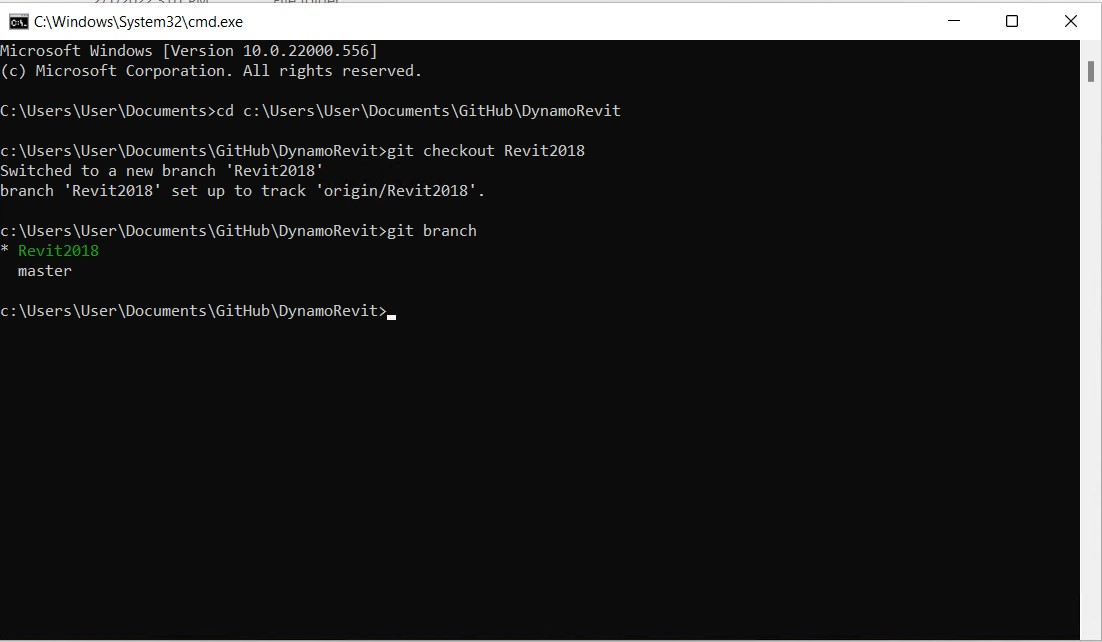
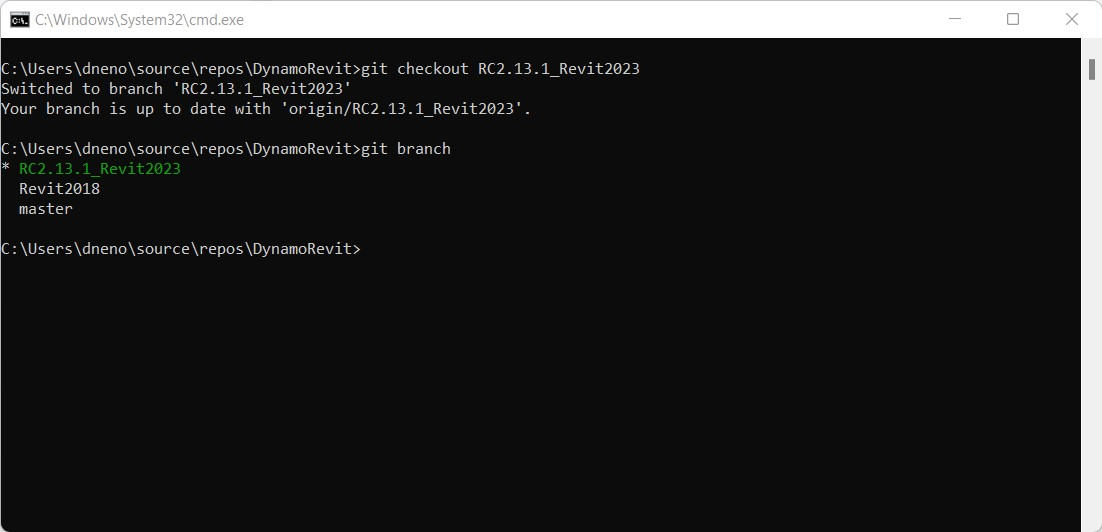
GitBook: [#26] No subject

Changed region(s): [[0.0, 0.0, 1.0, 0.5113], [0.0, 0.9925, 1.0, 1.0], [0.9873, 0.0902, 1.0, 0.1504]]

diff --git a/build-dynamo-from-source/build-dynamorevit-from-source.md b/build-dynamo-from-source/build-dynamorevit-from-source.md
@@ -7,17 +7,17 @@ The DynamoRevit source files are also hosted on the DynamoDS Github for develope
 
 For this guide we will use the following:
 
-* Revit 2018
-* The latest DynamoRevit build on branch `Revit2018`
+* Revit 2023
+* The latest DynamoRevit build on branch `Revit2023`
 * The latest Dynamo build
 
 To ensure a successful build we will clone and build both the Dynamo and DynamoRevit repositories to use in this walk-through.
 
-_Note: building Dynamo manually before DynamoRevit is only required if you are building Dynamo 1.x and DynamoRevit 1.x - newer versions of the DynamoRevit repository rely on the nuget package manager for the Dynamo dependencies required to build. While a build of DynamoRevit 2.x does not require pulling Dynamo manually you'll still need the core dlls somewhere else to actually run the DynamoRevit addin - so it's worth pulling and building Dynamo anyway. See more below:_ [_Building the repository using Visual Studio_](broken-reference/)
+_Note: building Dynamo manually before DynamoRevit is only required if you are building Dynamo 1.x and DynamoRevit 1.x - newer versions of the DynamoRevit repository rely on the NuGet package manager for the Dynamo dependencies required to build. While a build of DynamoRevit 2.x does not require pulling Dynamo manually you'll still need the core `dlls`somewhere else to actually run the DynamoRevit `addin`- so it's worth pulling and building Dynamo anyway. See more below:_ [_Building the repository using Visual Studio_](build-dynamorevit-from-source.md#building-dynamo-revit)
 
 #### Locating the DynamoRevit repository on Github <a href="#locating-the-dynamorevit-repository-on-github" id="locating-the-dynamorevit-repository-on-github"></a>
 
-The code for the DynamoRevit project lives in a separate repository on Github from the core Dynamo source code. This repo contains the the source files for Revit-specific nodes and the Revit addin which loads Dynamo. Builds of DynamoRevit for different versions of Revit (2016, 2017, or 2018, for example) are organized as branches in the repository.
+The code for the DynamoRevit project lives in a separate repository on Github from the core Dynamo source code. This repo contains the source files for Revit-specific nodes and the Revit `addin` which loads Dynamo. Builds of DynamoRevit for different versions of Revit (2016, 2017, or 2018, for example) are organized as branches in the repository.
 
 DynamoRevit's source is hosted here: [https://github.com/DynamoDS/DynamoRevit](https://github.com/DynamoDS/DynamoRevit)
 
@@ -42,13 +42,13 @@ We can now clone the repository into this directory. Though we will need to spec
 
 ![](../.gitbook/assets/cli-clone-revit.jpg)
 
-Once the repository has finished cloning, change the current directory to the repository folder and switch to the branch that matches the installed version of Revit. For this example, we are using Revit 2018. All remote branches can be viewed on the Github page in the Branch drop-down menu.
+Once the repository has finished cloning, change the current directory to the repository folder and switch to the branch that matches the installed version of Revit. For this example, we are using RC2.13.1\_Revit2023. All remote branches can be viewed on the Github page in the Branch drop-down menu.
 
 `cd C:\Users\username\Documents\GitHub\DynamoRevit` changes the directory to DynamoRevit.\
-`git checkout Revit2018` sets the current branch to `Revit2018`.\
+`git checkout RC2.13.1_Revit2023` sets the current branch to `Revit2023`.\
 `git branch` verifies which branch we are on and shows the others that exist locally.
 
-![](<../.gitbook/assets/cli-branch-revit (1).jpg>)
+![](../.gitbook/assets/cli-branch-revit.jpg)
 
 > The branch with an asterisk is the one currently checked out. The `Revit2017` branch is showing because we previously checked it out, so it exists locally.
 
@@ -68,7 +68,7 @@ If the packages are successfully restored, a `packages` folder will be added to 
 
 > 1. The latest beta Dynamo NuGet packages
 
-With the packages restored, open the `Dynamo.Revit.2013.sln` Visual Studio solution file in `src` and build the solution. The build may initially have trouble finding `AssemblySharedInfo.cs`. If so, rerunning the build will resolve this issue.
+With the packages restored, open the`DynamoRevit.All.sln` Visual Studio solution file in `src` and build the solution. The build may initially have trouble finding `AssemblySharedInfo.cs`. If so, rerunning the build will resolve this issue.
 
 ![](../.gitbook/assets/vs-build-dynamorevit.jpg)
 
@@ -79,14 +79,14 @@ With the packages restored, open the `Dynamo.Revit.2013.sln` Visual Studio solut
 
 Revit requires an add-in file to recognize DynamoRevit, something the [installer](http://dynamobim.org/download/) would create automatically. In development we need to manually create an add-in file that points to the build of DynamoRevit we want to use, specifically the `DynamoRevitDS.dll` assembly. We also need to point DynamoRevit to a build of Dynamo.
 
-Create a `Dynamo.addin` file in Revit's add-in folder located in `C:\ProgramData\Autodesk\Revit\Addins\2018`. We already had a version of DynamoRevit installed, so we will just edit the existing file to point to the new build.
+Create a `DynamoRevit.addin` file in Revit's add-in folder located in `C:\ProgramData\Autodesk\Revit\Addins\2023`. We already had a version of DynamoRevit installed, so we will just edit the existing file to point to the new build.
 
 ```xml
 <?xml version="1.0" encoding="utf-8" standalone="no"?>
 <RevitAddIns>
 <AddIn Type="Application">
 <Name>Dynamo For Revit</Name>
-<Assembly>"C:\Users\username\Documents\GitHub\DynamoRevit\bin\AnyCPU\Debug\Revit_2018\DynamoRevitDS.dll"</Assembly>
+<Assembly>"C:\Users\username\Documents\GitHub\DynamoRevit\bin\AnyCPU\Debug\Revit\DynamoRevitDS.dll"</Assembly>
 <AddInId>8D83C886-B739-4ACD-A9DB-1BC78F315B2B</AddInId>
 <FullClassName>Dynamo.Applications.DynamoRevitApp</FullClassName>
 <VendorId>ADSK</VendorId>
@@ -104,7 +104,7 @@ Alternatively, we can have the add-in load the version selector instead of a spe
 <RevitAddIns>
 <AddIn Type="Application">
 <Name>Dynamo For Revit</Name>
-<Assembly>"C:\Users\username\Documents\GitHub\DynamoRevit\bin\AnyCPU\Debug\Revit_2018\DynamoRevitVersionSelector.dll"</Assembly>
+<Assembly>"C:\Users\username\Documents\GitHub\DynamoRevit\bin\AnyCPU\Debug\Revit\DynamoRevitVersionSelector.dll"</Assembly>
 <AddInId>8D83C886-B739-4ACD-A9DB-1BC78F315B2B</AddInId>
 <FullClassName>Dynamo.Applications.VersionLoader</FullClassName>
 <VendorId>ADSK</VendorId>
@@ -115,6 +115,10 @@ Alternatively, we can have the add-in load the version selector instead of a spe
 
 * Set the `<Assembly>...</Assembly>` file path to `DynamoRevitVersionSelector.dll`
 * `<FullClassName>...</FullClassName>` specifies what class to instantiate from the assembly which we pointed to with the assembly element path above. This class will be the entry point for our addin.
+
+Additionally, we need to remove the existing Dynamo that ships with Revit. To do that, go to `C:\Program Files\Autodesk\Revit 2023\AddIns` and remove the two folders that contain **Dynamo** - `DynamoForRevit` and `DynamoPlayerForRevit`. You can either delete them or back them up in a separate folder if you need to recover the original Dynamo for Revit.
+
+![Folders to remove](../.gitbook/assets/fe-dynamo-folders-remove.jpg)
 
 The second step is to add a file path for the Dynamo core assemblies to the `Dynamo.config` file in DynamoRevit's `bin` folder. DynamoRevit will load these when the add-in is opened in Revit. This config file lets you point your DynamoRevit addin to different versions of the dynamo core for developing and testing changes in both core and DynamoRevit.
 
@@ -145,10 +149,10 @@ If an error dialog window appears showing missing assemblies, it is likely that 
 
 #### Debugging DynamoRevit using Visual Studio <a href="#debugging-dynamorevit-using-visual-studio" id="debugging-dynamorevit-using-visual-studio"></a>
 
-In the previous section, **Build Dynamo from Source**, we briefly introduced debugging in Visual Studio and how to attach visual studio to a process. Using an exception in the Wall.ByCurveAndHeight node as an example, we will walk through how to attach to a process, set break points, step through code, and use the call stack to determine the exception's source. These debugging tools apply generally to .net development workflows, and are worth exploring outside of this guide.
+In the previous section, [**Build Dynamo from Source**](./), we briefly introduced debugging in Visual Studio and how to attach visual studio to a process. Using an exception in the Wall.ByCurveAndHeight node as an example, we will walk through how to attach to a process, set breakpoints, step through code, and use the call stack to determine the exception's source. These debugging tools apply generally to .net development workflows and are worth exploring outside of this guide.
 
 * **Attach to process** links a running application to Visual Studio for debugging. If we want to debug behavior occurring in a build of DynamoRevit, we can open the DynamoRevit source files in Visual Studio and attach the `Revit.exe` process, which is the parent process of the DynamoRevit addin. Visual Studio uses a [symbol file](https://msdn.microsoft.com/en-us/library/ms241613.aspx) (`.pbd`) to make the connection between the assemblies DynamoRevit is executing and the source code.
-* **Break points** establish lines in the source code where the application will pause before executing. If a node is causing DynamoRevit to crash or return an unexpected result, we can add a break point to the node's source to pause the process, step into the code, and inspect live values of variables until we find the root of the problem
+* **Break points** establish lines in the source code where the application will pause before executing. If a node is causing DynamoRevit to crash or return an unexpected result, we can add a breakpoint to the node's source to pause the process, step into the code, and inspect live values of variables until we find the root of the problem
 * **Stepping through code** walks through the source line by line. We can run functions one by one, step into a function call, or jump out of the function we're currently executing.
 *   **The Call stack** shows the function that a process is currently running relative to the previous function calls which invoked this function call. Visual Studio has a Call Stack window to display this. For example, if we reach an exception outside of the source code, we can see the path to the calling code in the call stack.
 
@@ -156,9 +160,13 @@ In the previous section, **Build Dynamo from Source**, we briefly introduced deb
 
 The **Wall.ByCurveAndHeight** node throws an exception when given a PolyCurve as its curve input with the message: _"To BSPlineCurve Not Implemented"_. With debugging we can figure out why exactly the node won't accept this geometry type as an input for the curve parameter. For this example, we are assuming that DynamoRevit has been successfully built and can be run as an add-in for Revit.
 
+![](../.gitbook/assets/dyn-wallbycurveandheight.jpg)
+
 > 1. The Wall.ByCurveAndHeight node throwing an exception
 
-Start by opening the `DynamoRevit.2013.sln` solution file, start Revit, and start the DynamoRevit add-in. Then attach Visual Studio to the Revit process with the `Attach to Process` window.
+Start by opening the `DynamoRevit.All.sln` solution file, start Revit, and start the DynamoRevit add-in (from Manager/Dynamo). Then attach Visual Studio to the Revit process with the `Attach to Process` window.
+
+![](../.gitbook/assets/vs-debug-attachprocess.jpg)
 
 > Revit and DynamoRevit need to be running to show as an available process
 >
@@ -167,29 +175,37 @@ Start by opening the `DynamoRevit.2013.sln` solution file, start Revit, and star
 > 3. Select `Revit.exe`
 > 4. Select `Attach`
 
-With Visual Studio attached to Revit, open the Wall.ByCurveAndHeight source code in `Wall.cs`. We can find this in the Solution Explorer under `Libraries > RevitNodes > Elements` in the `Public static constructors` region of the file. Set a break point in the constructor of the wall type so that when node is executed in Dynamo, the process will break and we can step through each line of code individually. Usually Dynamo zero touch type constructors start with `By<parameters>`.
+With Visual Studio attached to Revit, open the Wall.ByCurveAndHeight source code in `Wall.cs`. We can find this in the Solution Explorer under `Libraries > RevitNodes > Elements` in the `Public static constructors` region of the file. Set a breakpoint in the constructor of the wall type so that when node is executed in Dynamo, the process will break and we can step through each line of code individually. Usually Dynamo zero touch type constructors start with `By<parameters>`.
+
+![](../.gitbook/assets/vs-debugging-breakpoint.jpg)
 
 > 1. The class file with the constructor for Wall.ByCurveAndHeight
 > 2. Set a breakpoint by either clicking left of the line number or right-clicking on the line of code and select `Breakpoint > Insert Breakpoint`.
 
 With the breakpoint set, we need the process to run through the Wall.ByCurveAndHeight function. The function can be executed again in Dynamo by reconnecting a wire to one of its ports, which will force the node to re-execute. The breakpoint will be hit in Visual Studio.
 
+![](../.gitbook/assets/vs-breakpoint.jpg)
+
 > 1. The breakpoint icon changes when it is hit
 > 2. The Call Stack window showing the method that is up next
 
 Now step over each line in the constructor until we hit the exception. Code highlighted in yellow is the next statement to be run.
 
+![](../.gitbook/assets/vs-stepover.jpg)
+
 > 1. The debugging tools for navigating code
 > 2. Press `Step Over` to run the highlighted code then suspend execution after the function returns
 > 3. The next statement to run indicated by the yellow highlight and arrow
 
-If we keep stepping through the function, we will hit the exception that displayed in the DynamoRevit window. Looking at the Call Stack window, we can see that the exception is coming from the `Autodesk.LibG.PolyCurve.to_nurbs_curve()` method in `LibG.Managed.dll`. Thankfully the exception is handled here so Dynamo did not crash. The debugging process has provided context for the issue by bringing us to another method in the source code.
+If we keep stepping through the function, we will hit the exception that displayed in the DynamoRevit window. Looking at the Call Stack window, we can see that the exception was originally thrown from a method called `Autodesk.Revit.CurveAPIUtils.CreateNurbsCurve`. Thankfully the exception is handled here so Dynamo did not crash. The debugging process has provided context for the issue by bringing us to another method in the source code.
 
-`LibG.managed.dll` is not an open source library so we cannot make changes there - now that we have more information we can report the issue with more context by filing a github [issue](https://guides.github.com/features/issues/) or we could propose a workaround for this issue making a pull request.
+Since thisis not an open source library we cannot make changes there - now that we have more information we can report the issue with more context by filing a github [issue](https://guides.github.com/features/issues/) or we could propose a workaround for this issue making a pull request.
+
+![](../.gitbook/assets/vs-exception.jpg)
 
 > 1. When we hit the statement causing the exception in `Walls.cs`, the debugging process brings us as close as it could to the root of the issue in the user code inside `ProtoToRevitCurve.cs`
 > 2. The statement causing the exception in `ProtoToRevitCurve.cs`
-> 3. In the Call Stack, we can see that the exception is coming from non-user code in `LibG.Managed.dll`
+> 3. In the Call Stack, we can see that the exception is coming from non-user code
 > 4. A pop-up window giving us information about the exception
 
 This process can be applied to any source files we are working with. If we are developing a library of Zero-Touch nodes for Dynamo Studio, we can open the library's source and attach a Dynamo process to debug the node library. Even if everything is functioning perfectly, debugging is a great way to explore code and find out how things are working.
@@ -199,13 +215,13 @@ This process can be applied to any source files we are working with. If we are d
 This process is nearly identical to pulling changes for Dynamo, except that we will need to ensure that we are on the correct branch. Use the `git branch` command in the DynamoRevit repository to see which branches are available locally and which are currently checked out.
 
 `cd C:\Users\username\Documents\GitHub\DynamoRevit` sets the current directory to the DynamoRevit repository.\
-`git branch` verifies we are on the correct branch, `Revit2017`.\
-`git pull origin Revit2017` pulls changes from the remote origin `Revit2017` branch.
+`git branch` verifies we are on the correct branch, `RC2.13.1_Revit2023`.\
+`git pull origin RC2.13.1_Revit2023` pulls changes from the remote origin `RC2.13.1_Revit2023` branch.
 
 Origin simply points to the original url we cloned.
 
 ![](../.gitbook/assets/cli-pull-revit.jpg)
 
-> We want to be mindful here of which branch we are currently on and which one we are pulling from to avoid pulling changes from `Revit2018` into `Revit2017` for example.
+> We want to be mindful here of which branch we are currently on and which one we are pulling from to avoid pulling changes from `RC2.13.1_Revit2023` into `Revit2018` for example.
 
 As mentioned in **Build Dynamo from Source**, when we are ready to submit a change to the DynamoRevit repository we can create a pull request following the Dynamo team's guidelines laid out in the Pull Requests section.
